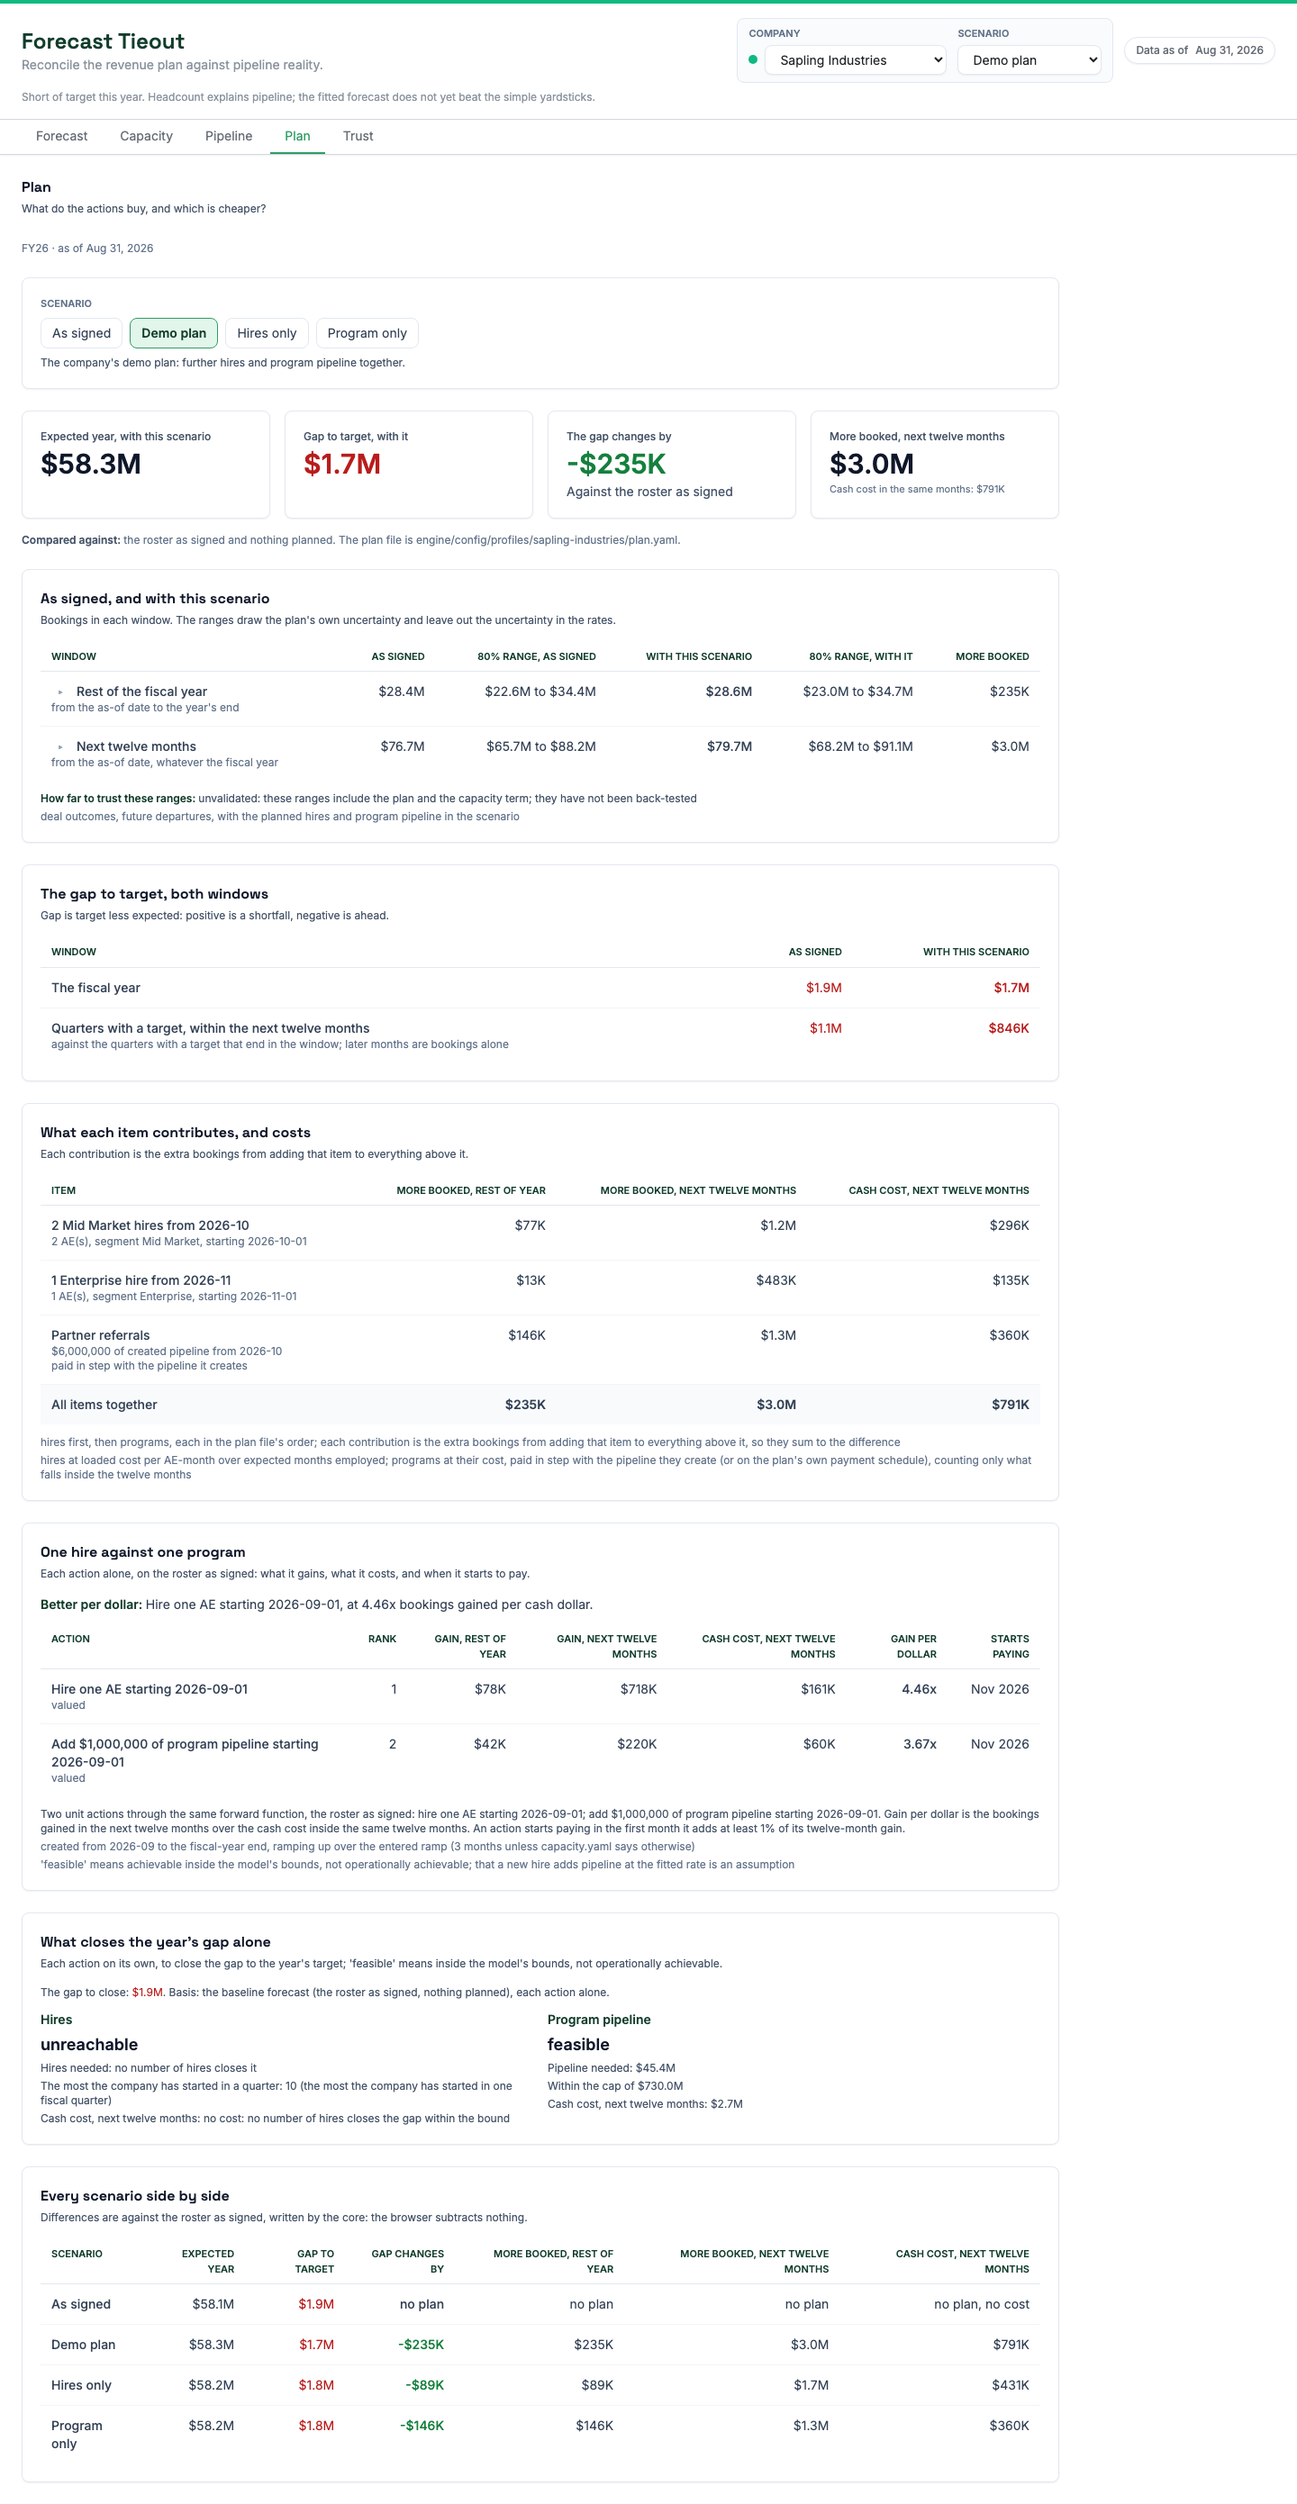
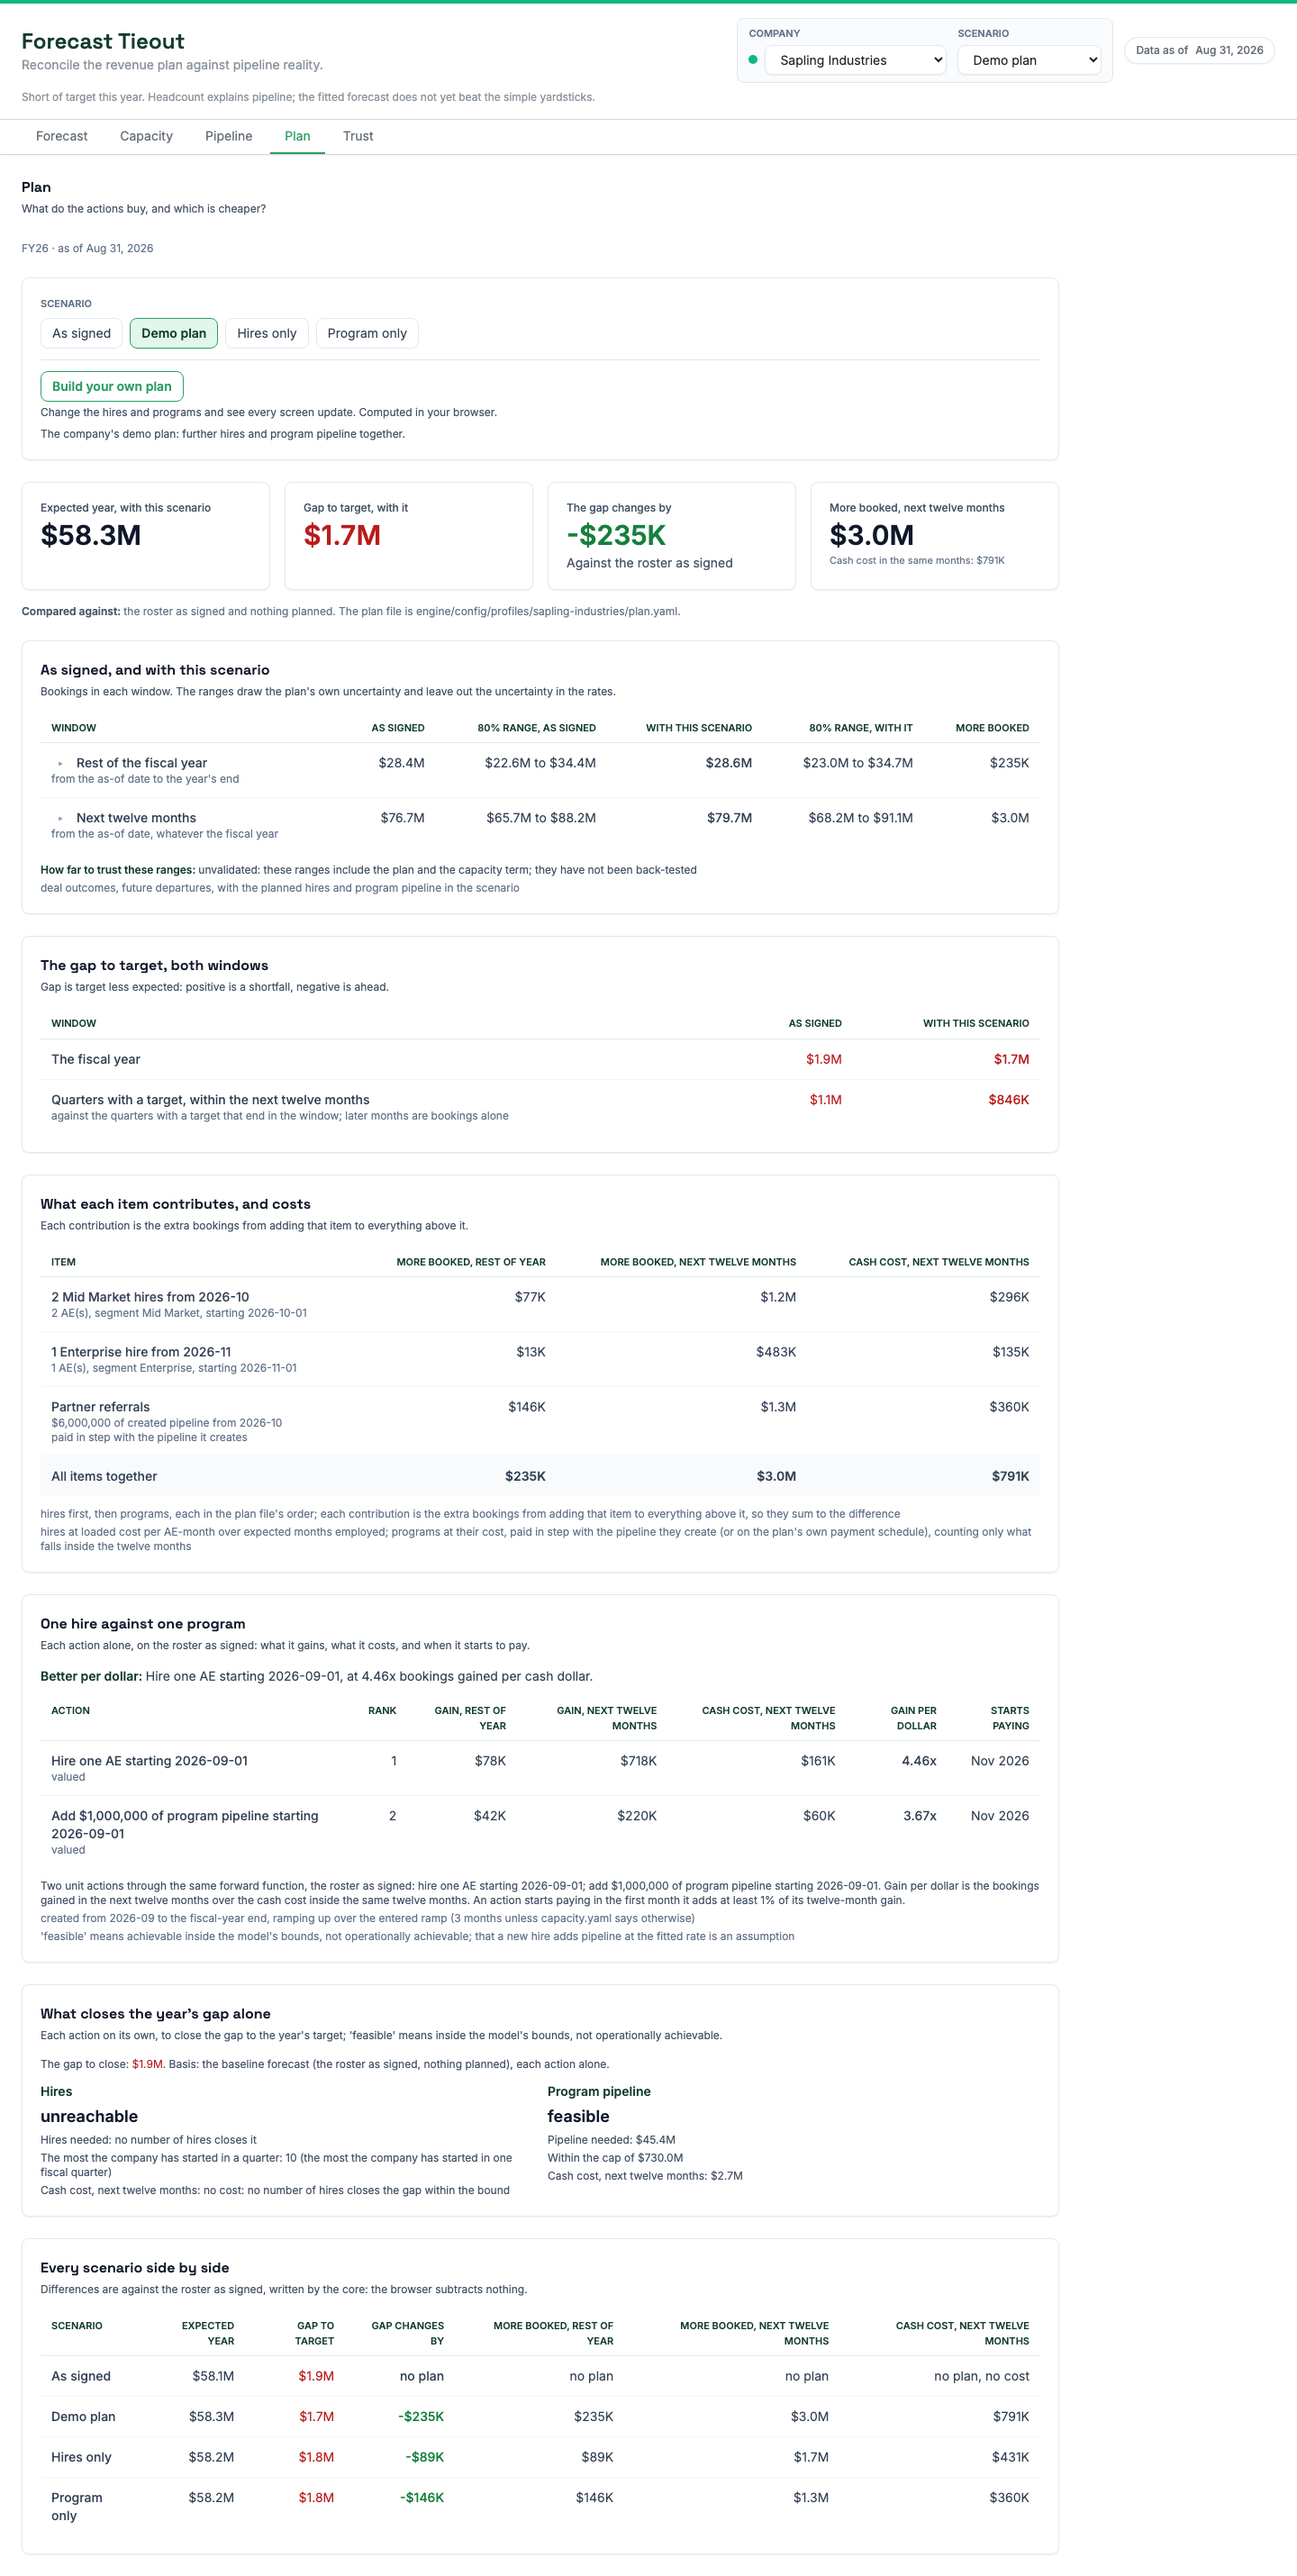
docs: README names the Build your own plan button; screenshots retaken with it and the new foot-of-screen line

diff --git a/README.md b/README.md
@@ -67,7 +67,7 @@ the address.
 
 ## Your own plan (desktop only)
 
-At desktop widths, the Plan screen has a fifth choice, "Your plan": a form of hires and
+At desktop widths, the Plan screen has a "Build your own plan" button, set apart from the named scenarios: a form of hires and
 programs that starts from the company's demo plan. Apply computes a complete report for
 it in your browser, with the same Python core that wrote the committed reports (Pyodide in
 a web worker), and every screen then shows it, marked as your plan. The first time costs
